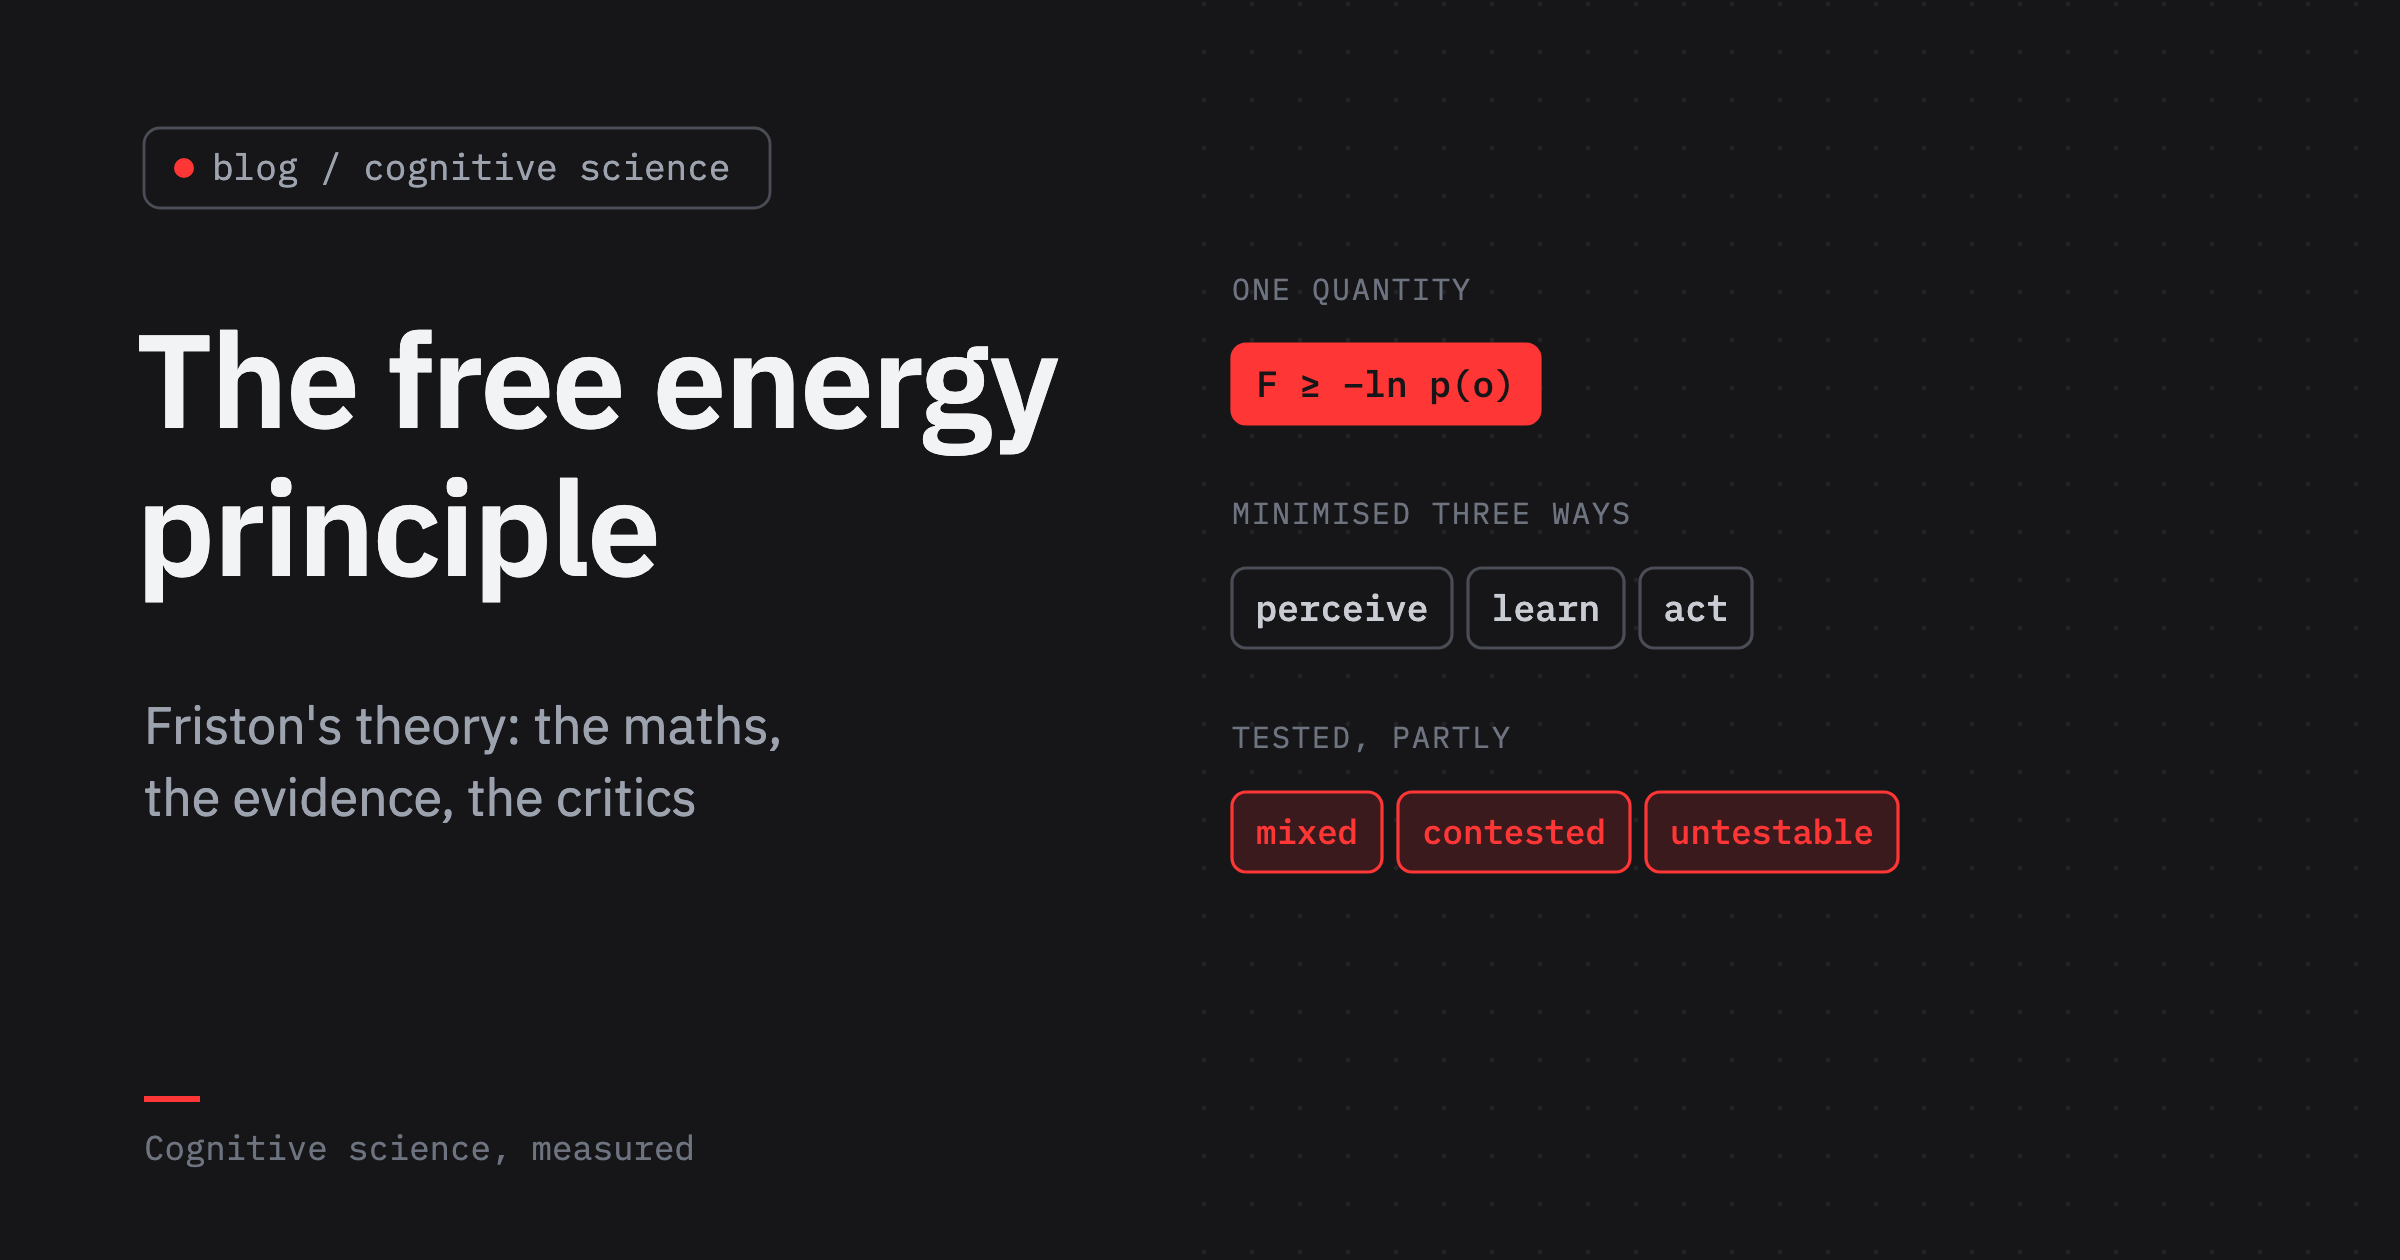
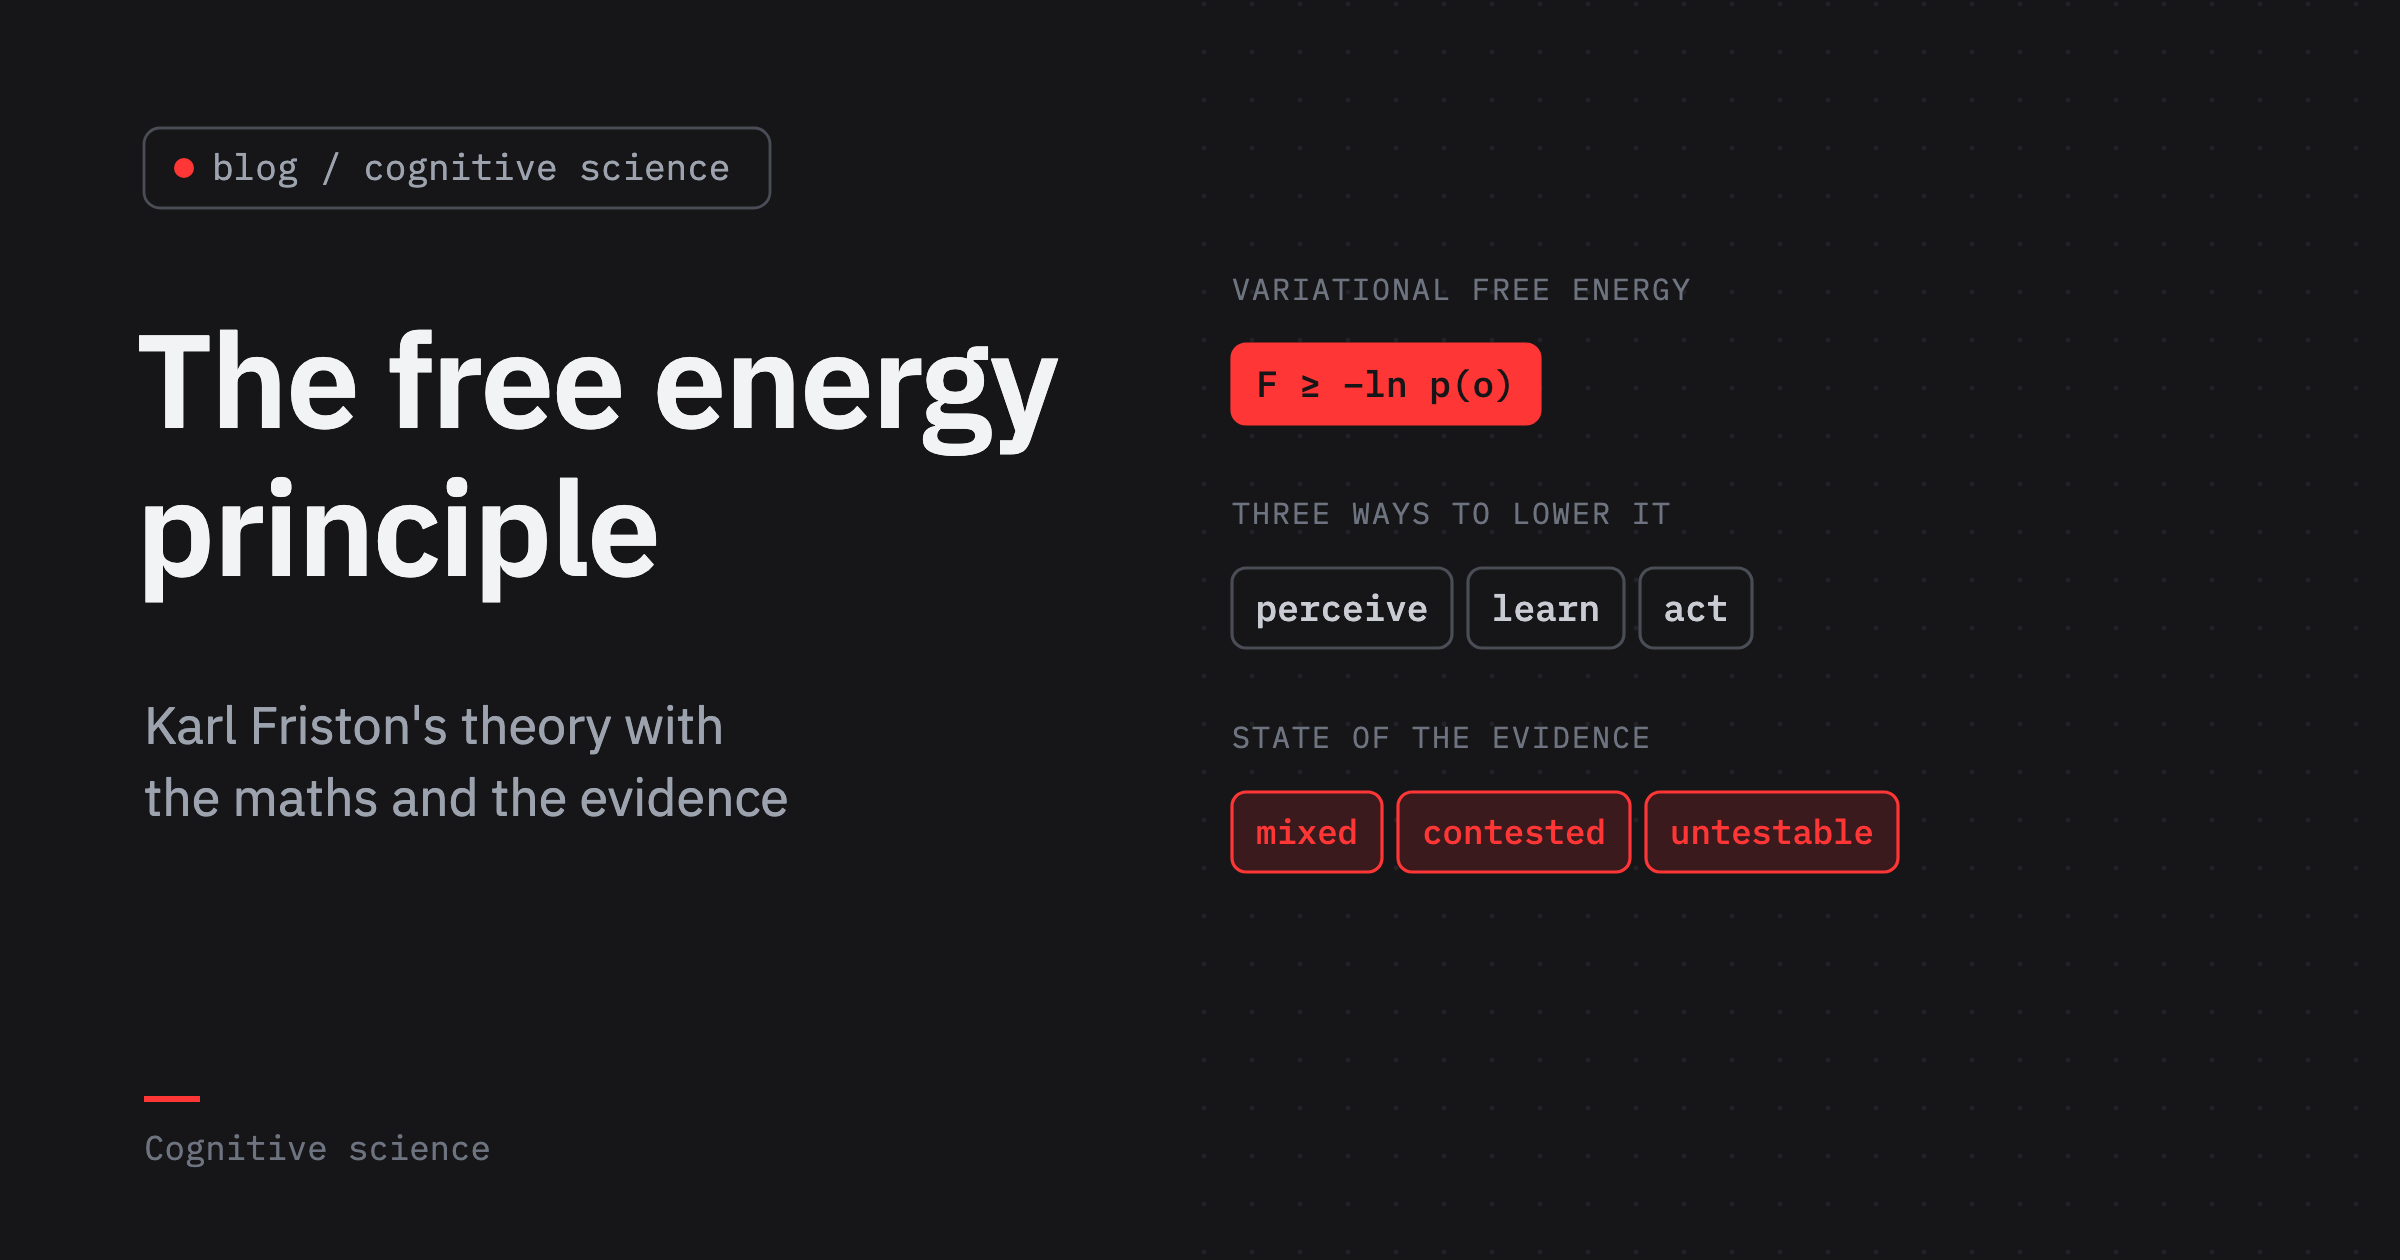
Free energy post: plain, searchable title, headings, figure titles and cover; a shorter search title and a search description

diff --git a/_posts/2026-11-08-free-energy-principle.md b/_posts/2026-11-08-free-energy-principle.md
@@ -1,8 +1,10 @@
 ---
 layout: post
-title: "Friston's free energy principle, explained: the maths, the evidence and the critics"
+title: "How Karl Friston's free energy principle works and what its critics say"
+seo_title: "Karl Friston's free energy principle and its critics"
 date: 2026-11-08 00:00:00
-description: "Karl Friston's free energy principle without a physics degree: surprise, variational free energy and its link to the ELBO, predictive coding computed on a worked example, active inference and expected free energy, Markov blankets, what the experiments show and the strongest criticisms"
+description: "Karl Friston's free energy principle with exact formulas and plain words. Surprisal and variational free energy, its link to the ELBO of machine learning, predictive coding on a worked example, active inference, Markov blankets, the experimental evidence and the main criticisms"
+seo_description: "Karl Friston's free energy principle with exact formulas, from variational free energy and predictive coding to active inference, evidence and critics."
 tags: [free-energy-principle, active-inference, predictive-coding, neuroscience, bayesian-brain]
 categories: [cognitive-science, machine-learning]
 thumbnail: /assets/posts/free-energy-principle/cover.png
@@ -40,7 +42,7 @@ In 2016 a ranking of influence in neuroscience by Semantic Scholar put him first
 
 This post tries. It uses the formulas, because the principle is a mathematical statement and loses its meaning without them, but every symbol is explained, and each step comes with what it means in plain words. It ends with what the principle predicts, what has been tested, and the strongest arguments against it.
 
-## The principle in one paragraph
+## What is the free energy principle?
 
 Anything that persists, a cell, a fish, a person, stays within a small range of states: a fish stays in water, your body temperature stays near 37 °C.
 
@@ -48,7 +50,7 @@ In the language of probability, it keeps its sensations *unsurprising*. It can't
 
 There are three ways to make free energy smaller: change your beliefs to fit what you sense, which is perception; change your model over time, which is learning; or change what you sense by acting on the world, which is action. That is the whole principle; the rest is working out what it implies.
 
-## Surprise: how improbable a sensation is under your model
+## Surprisal and why living things keep it low
 
 Start with a definition. If a creature's model of the world assigns probability $$p(o)$$ to an observation $$o$$, the *surprisal* of that observation is
 
@@ -70,7 +72,7 @@ Entropy is average surprisal, and if the system is *ergodic*, if averaging over 
 This entropy is the Shannon entropy of a probability distribution, not the entropy of thermodynamics; living things don't violate the second law, they keep their own states ordered while exporting disorder to their surroundings. And ergodicity is an assumption, not a fact about organisms, which do grow, age and die.
 </div>
 
-## Free energy: a bound you can actually compute
+## Variational free energy and the ELBO
 
 There is a problem. To compute $$p(o)$$ a creature would have to add up the probability of the observation over every possible cause of it, every hidden state $$x$$ of the world that could have produced it:
 
@@ -116,7 +118,7 @@ The idea of a brain doing this goes back to the Helmholtz machine of Dayan, Hint
 The formula has the same shape as the Helmholtz free energy of statistical physics, energy minus temperature times entropy, if you call $$-\ln p(o, x)$$ the energy and set the temperature to 1. The mathematics is shared; there are no joules in it.
 </div>
 
-## Perception: prediction errors, weighted by how much you trust them
+## Predictive coding and precision
 
 Free energy says what perception optimises, not how a brain could do it. To get a mechanism, Friston assumes that the generative model is Gaussian: an observation is a prediction from the hidden cause plus noise, and the cause has a bell-shaped prior.
 
@@ -162,7 +164,7 @@ Turn up the precision of the senses and the guess follows the data; turn up the 
 
 <p class="takeaway" markdown="1">With Gaussian assumptions, minimising free energy is gradient descent on prediction errors weighted by precision. It finds the most probable cause, not a full posterior.</p>
 
-## Action: making the world fit the prediction
+## Active inference and expected free energy
 
 Here the free energy principle departs from ordinary Bayesian perception. Free energy depends on the observation, and a creature can change its observations by acting. If your model predicts that your arm is raised, there are two ways to remove the error: revise the belief, or raise the arm.
 
@@ -193,7 +195,7 @@ Friston's reply is that surprise is always relative to the creature's model, and
 
 Expected free energy adds a second answer: a dark room is maximally ambiguous, so the first thing an active-inference agent does there is switch on the light.
 
-## Markov blankets: what makes a thing a thing
+## Markov blankets
 
 The principle's most ambitious version starts from physics, not brains. It asks: what does it take for anything to exist as something separate from its surroundings?
 
@@ -210,7 +212,7 @@ The 2019 monograph "A free energy principle for a particular physics" claims tha
 
 The assumptions are many and technical: random dynamics of a particular form, a steady state that the system keeps returning to, coupling sparse enough to produce a blanket, and restrictions on how internal and external states can circulate around each other. Several of them have been challenged, as we'll see.
 
-## What the evidence shows
+## Experimental evidence
 
 The principle itself makes no prediction that could fail; we'll come back to that. The process theories built on it do.
 
@@ -241,7 +243,7 @@ Adults with autism were found to be "less surprised than neurotypical adults whe
 
 <p class="takeaway" markdown="1">The brain clearly uses expectations. Whether it computes them by predictive coding is mixed in the evidence, and direct tests of the principle itself are still few.</p>
 
-## The strongest criticisms
+## Criticism of the free energy principle
 
 *It can't be falsified, and its author agrees.* "The free energy principle is what it is—a principle. Like Hamilton's Principle of Stationary Action, it cannot be falsified"<sup class="cite">[<a href="#ref-1" id="cite-31" data-ref="1" aria-label="Reference 1: Fortier &amp; Friedman, 2018. aliusresearch.org.">1</a>]</sup>.
 
@@ -263,7 +265,7 @@ Biehl, Pollock and Kanai showed by counterexample that the original "free energy
 
 The machine-learning connection runs the other way: predictive coding networks, it turns out, can approximate backpropagation, "converges asymptotically (and in practice, rapidly) to exact backprop gradients on arbitrary computation graphs"<sup class="cite">[<a href="#ref-35" id="cite-39" data-ref="35" aria-label="Reference 35: Millidge et al., 2022. doi.org.">35</a>]</sup>.
 
-## What follows
+## How to read the free energy principle
 
 The free energy principle is best read as three things stacked on each other, and most arguments about it come from mixing them up.
 
